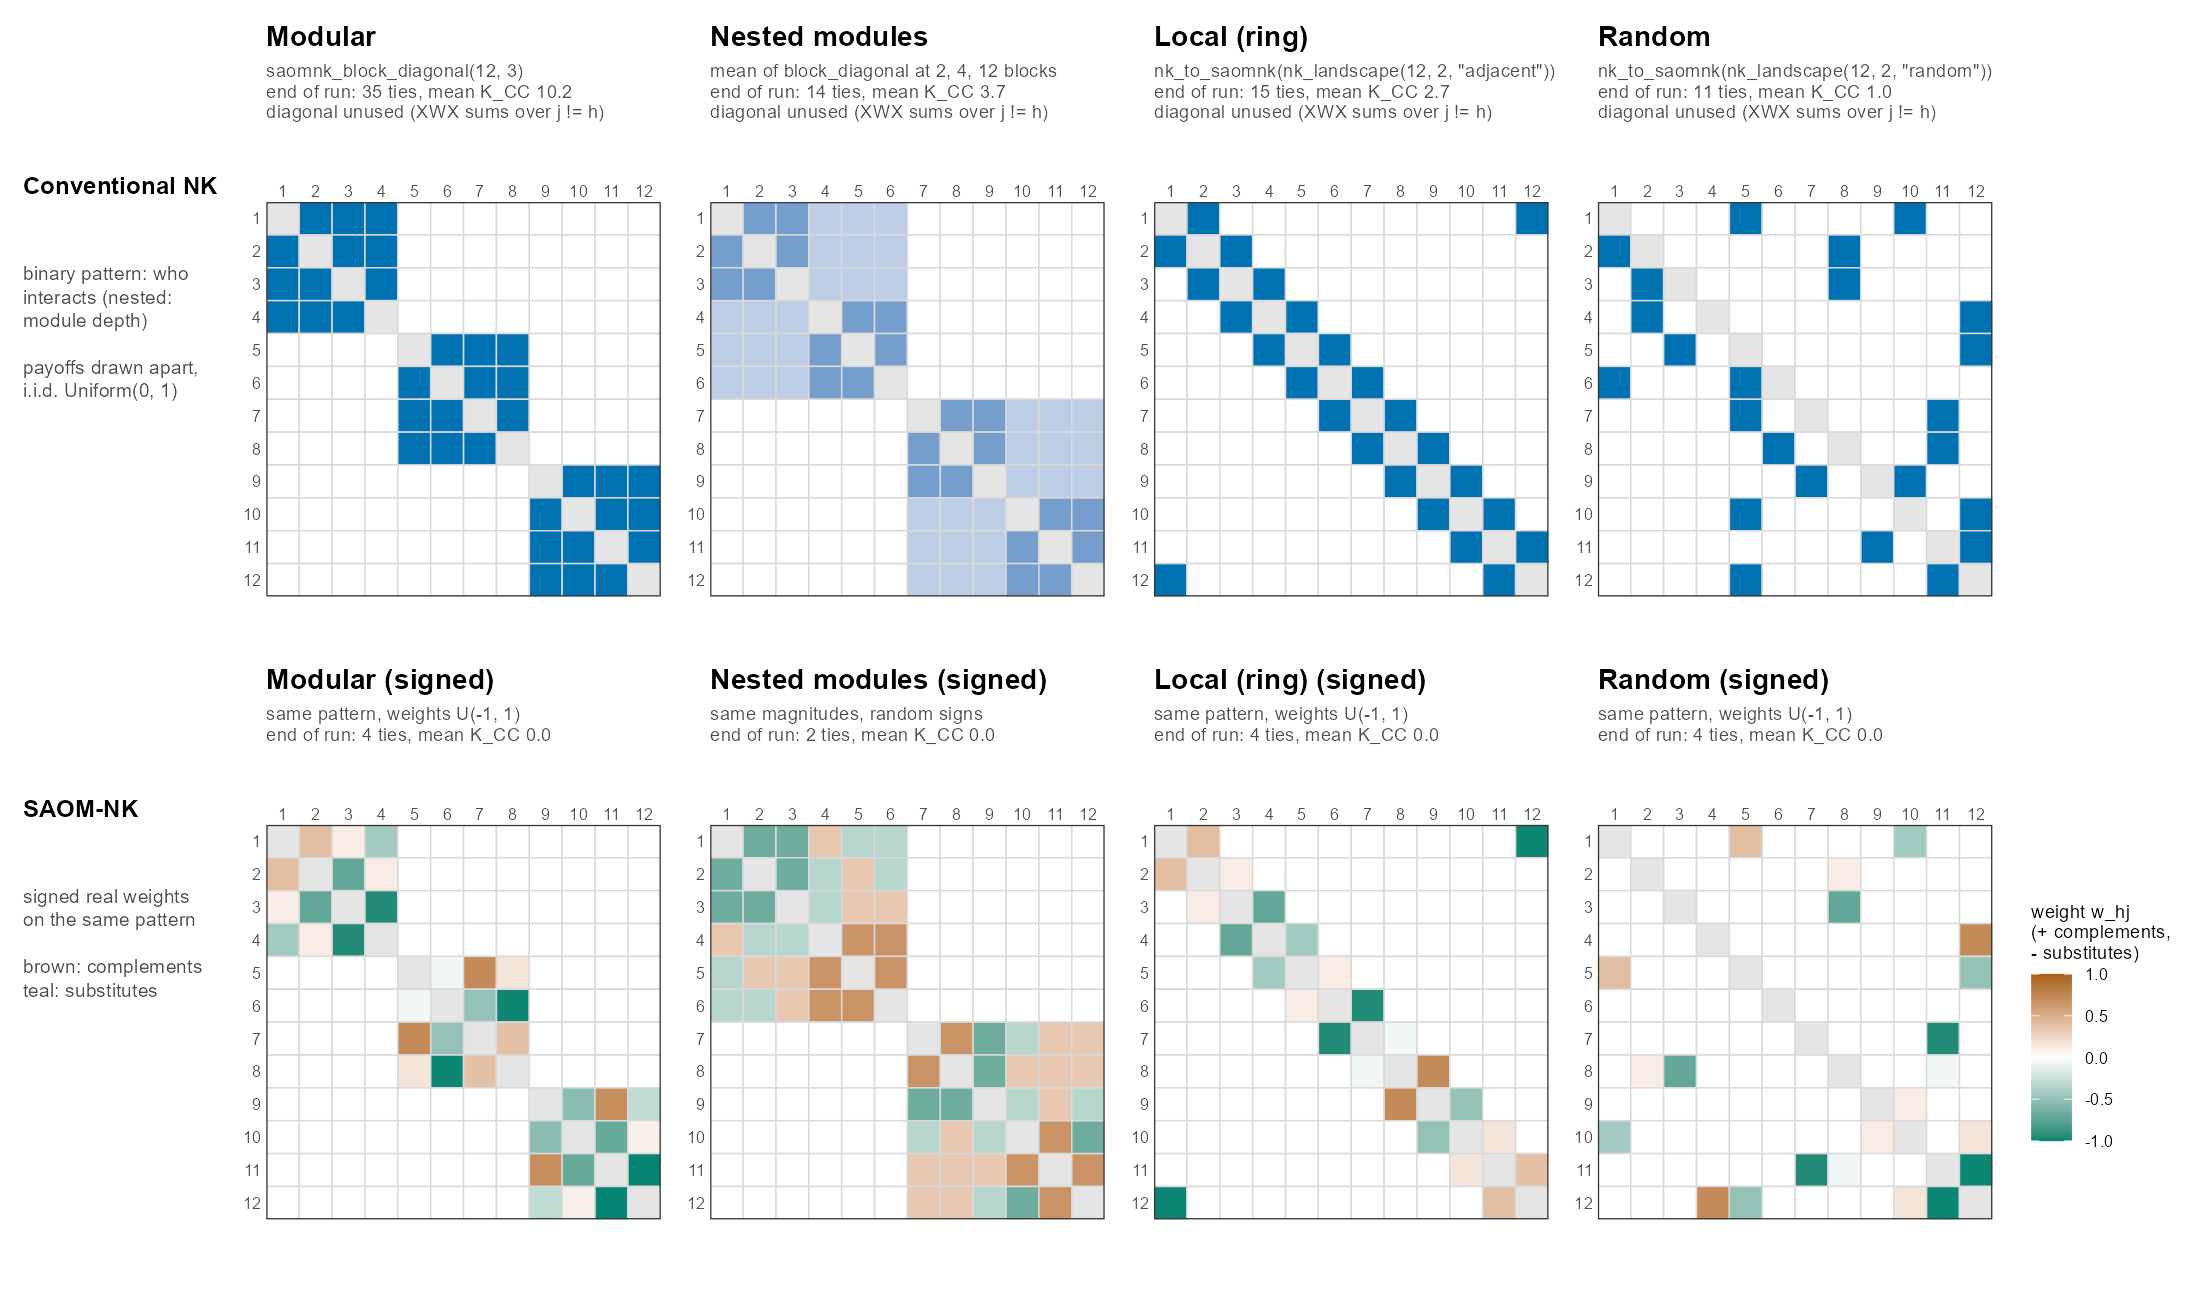
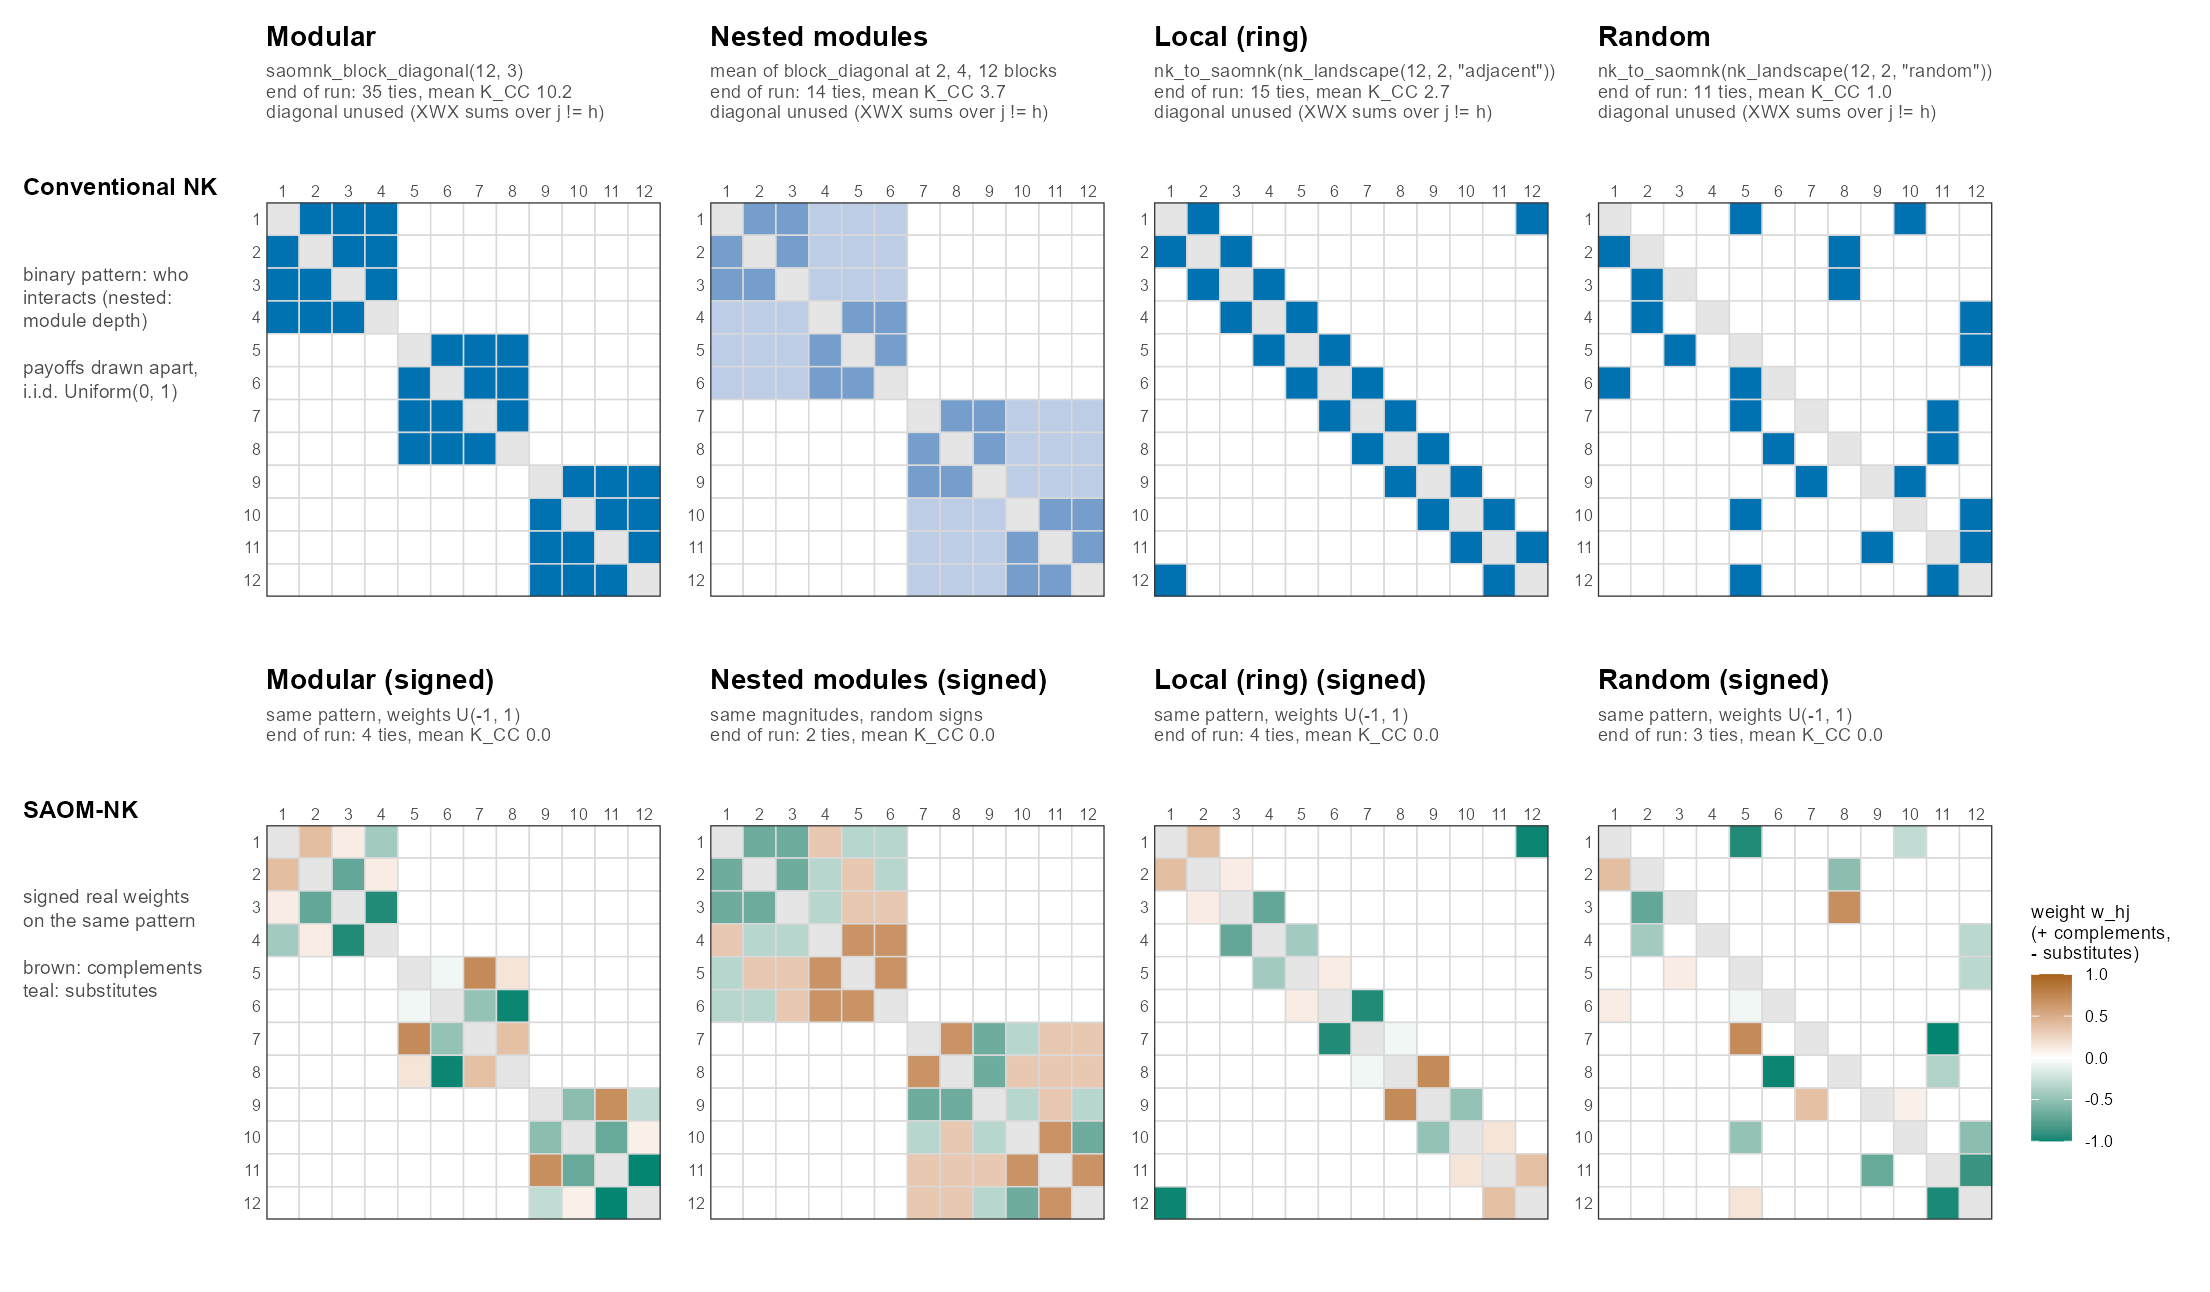
searchnet v0.12.7 release snapshot

diff --git a/README.md b/README.md
@@ -26,7 +26,7 @@ the four coupled degree series `saomnk_plot_k4()` draws over the run. Generated 
 > to be expected. The companion methods paper has not yet been
 > peer-reviewed; results should be treated accordingly.
 > For reproducibility, install a pinned tag rather than the moving branch:
-> `devtools::install_github("sdownin/searchnet@v0.12.6")`.
+> `devtools::install_github("sdownin/searchnet@v0.12.7")`.
 > **v0.8.3 and earlier:** `saomnk_model()` simulations that declared
 > `influence_weight`, `cycle4`, `XWX`, `X`, `inPopX`, `outActX` or
 > `homXOutAct` did not simulate the declared coefficient (estimation via
@@ -541,6 +541,7 @@ history jumps from v0.4.1 to v0.7.0 — NEWS.md records why.
 
 | Version | Highlights |
 |---|---|
+| **v0.12.7** | Documentation only: in the README architectures figure, each signed matrix keeps the exact nonzero cells of the conventional pattern above it. No change to simulated results since v0.12.2. |
 | **v0.12.6** | The two {K} dimensions of each effect are displayed as **decision** (what the utility of a move depends on) and **outcome** (the network structure it shifts); one construct label per effect class across README, paper and figure; README hero spacing and status warning. No change to simulated results since v0.12.2. Suite: 65 files, 924 tests, 0 failures, 0 errors. |
 | **v0.12.5** | Documentation only: README hero figure re-laid out (inputs and start/end networks on the left, {K}-4 panel at full height on the right). No code change since v0.12.2. |
 | **v0.12.4** | Documentation only: withdrawn K_CC figures removed from the README. Public release of 0.12.2 (the {K} dimensions each effect reads and moves; K_AA and K_CC exclude the node) and 0.12.3 (README figures). No code change since v0.12.2. |
@@ -577,7 +578,7 @@ line and are exercised by the v0.12.2 test suite.
   title  = {searchnet: Network-Embedded Search Simulation Engine},
   author = {Stephen Downing},
   year   = {2026},
-  note   = {R package version 0.12.6},
+  note   = {R package version 0.12.7},
   url    = {https://github.com/sdownin/searchnet}
 }
 ```

diff --git a/NEWS.md b/NEWS.md
@@ -1,3 +1,7 @@
+# searchnet 0.12.7
+
+Released 2026-10-08. Documentation only; no change to simulated results since 0.12.2. README architectures figure: each signed matrix keeps exactly the nonzero cells of the conventional pattern above it (the asymmetric random pattern was being symmetrized); `tools/make_readme_figures.R` now asserts it.
+
 # searchnet 0.12.6
 
 Released 2026-10-08. Documentation and display labels; no change to simulated results since 0.12.2. Suite: 65 files, 924 tests, 6895 expectations, 0 failures, 0 errors, 9 skips.
